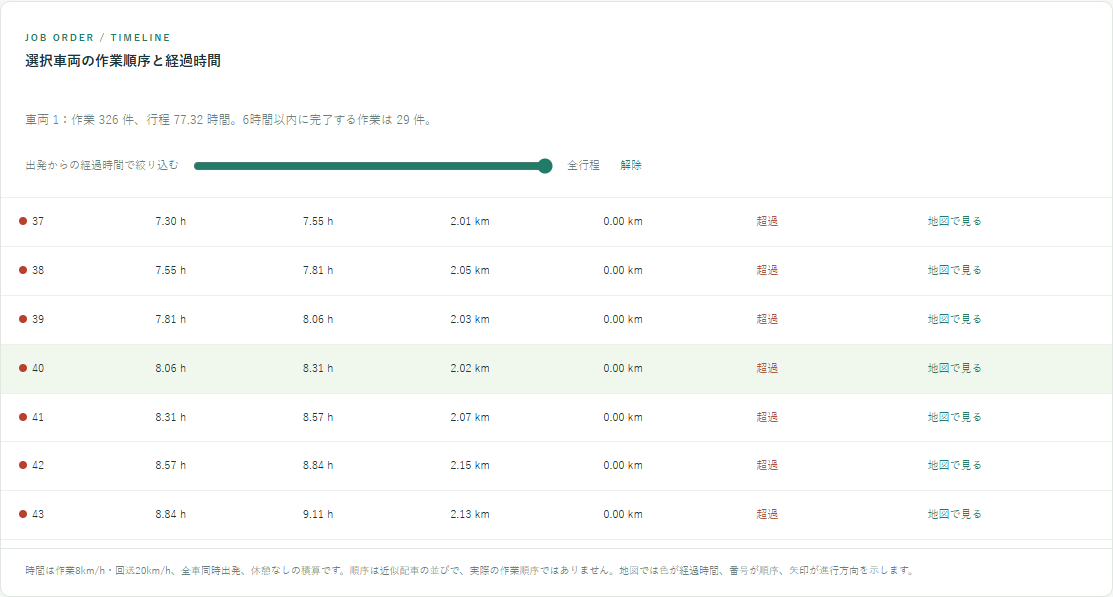
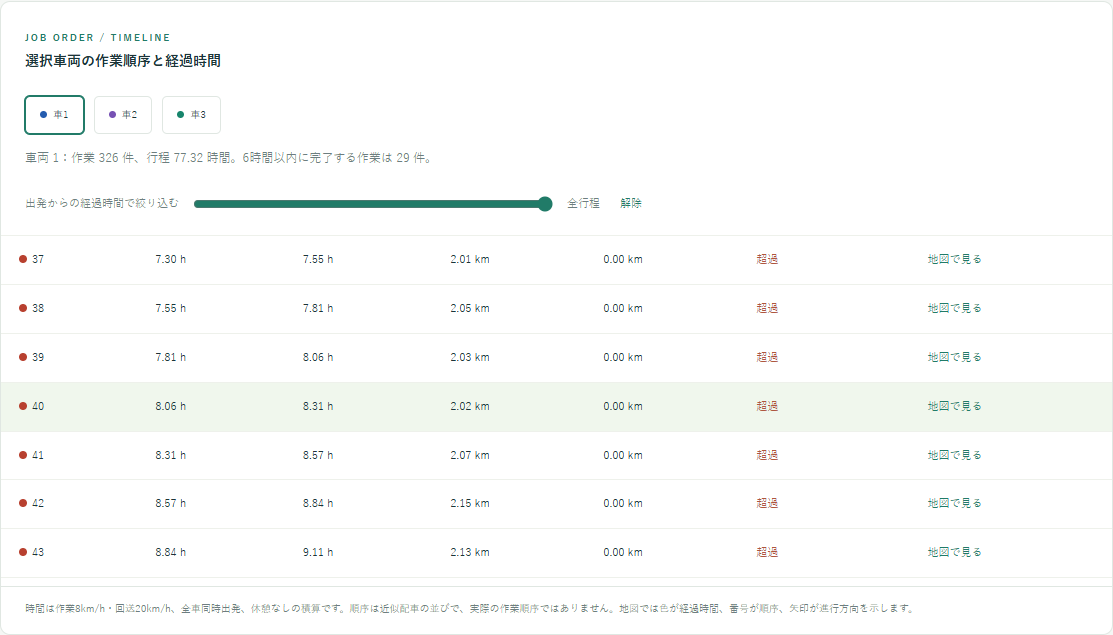
Distinguish marker types and allow switching vehicles from the focused view
- Labels by kind: 業N contractors, DCN sites, 融N melting facilities, 車N vehicle
  start points (rounded tags); circled numbers are reserved for job order
- In the single-vehicle view the other vehicles' start points stay as faded,
  clickable tags; legend and trip-panel vehicle chips plus prev/next buttons
  switch vehicles without going back to the company view

diff --git a/web/style.css b/web/style.css
@@ -8,7 +8,7 @@
 .company-map-legend>b,.company-map-legend>span{display:block;margin-bottom:6px}
 .company-map-legend>div{display:flex;flex-wrap:wrap;gap:5px}
 .company-map-legend .vehicle-chip{padding:4px 8px}
-.vehicle-start span{display:block;border:2px solid white;border-radius:50%;color:white;font:bold 10px/18px Arial;text-align:center;box-shadow:0 1px 4px #0005}
+.vehicle-start span{display:block;border:2px solid white;border-radius:5px;color:white;font:bold 10px/16px Meiryo,sans-serif;text-align:center;box-shadow:0 1px 4px #0005}.vehicle-start.is-other span{opacity:.45}.vehicle-start.is-other:hover span{opacity:1}
 .dc-map-controls{display:flex;align-items:center;flex-wrap:wrap;gap:10px 20px;padding:12px 24px;border-top:1px solid var(--line);font-size:11px}
 .dc-map-controls label{display:flex;align-items:center;gap:6px;cursor:pointer}
 .dc-map-controls>span{color:var(--muted);font-size:10px}
@@ -33,7 +33,7 @@
 .route-layout>*,.thermal-layout>*,.stats>*,.evidence-grid>*,.site-grid>*{min-width:0}
 .snow-input-grid{display:grid;grid-template-columns:repeat(3,minmax(0,1fr));gap:14px 20px;margin:14px 0 22px}.snow-input-grid label{font-size:11px;min-width:0}.snow-input-grid small{color:var(--muted)}.snow-input-grid input,.snow-input-grid select{min-width:0}.snow-balance{display:grid;grid-template-columns:repeat(3,minmax(0,1fr));gap:15px;margin-top:18px}.snow-balance-item{display:grid;gap:5px;font-size:11px}.snow-balance-item i{display:inline-block;width:8px;height:8px;margin-right:6px;border-radius:50%}.snow-balance-item b{font-size:20px;font-weight:500}.snow-balance-item meter{width:100%}.snow-chart-panel{margin:20px 0}#snow-chart svg{display:block;width:100%;height:auto}#snow-chart text{font:11px sans-serif;fill:#6d7e80}#snow-day-stocks{display:flex;gap:15px;flex-wrap:wrap;font-size:11px;margin-top:15px}#snow-error{color:#af563f}#snow-management .panel,#snow-management .table-scroll{min-width:0;max-width:100%}#snow-management [hidden]{display:none}#snow-management .stat-value{font-size:25px}@media(max-width:800px){.snow-input-grid,.snow-balance{grid-template-columns:repeat(2,minmax(0,1fr))}}@media(max-width:380px){.snow-input-grid{grid-template-columns:1fr}.sidebar nav{flex-wrap:wrap}}
 :root{--ink:#1c3438;--muted:#6d7e80;--green:#217b68;--lime:#dfeec6;--bg:#f5f7f5;--line:#e0e7e2;--blue:#47799a;--red:#bd6555;--sidebar:235px}
-*{box-sizing:border-box}html{scroll-behavior:smooth;scroll-padding-top:28px}body{margin:0;background:var(--bg);color:var(--ink);font:14px/1.8 "Noto Sans JP","Yu Gothic",Meiryo,sans-serif}a{color:var(--green);text-decoration:none}a:hover{text-decoration:underline}button,input,select{font:inherit}button{cursor:pointer}button:focus-visible,a:focus-visible,input:focus-visible,select:focus-visible,summary:focus-visible{outline:3px solid #e5a331;outline-offset:3px}.sidebar{position:fixed;inset:0 auto 0 0;width:var(--sidebar);padding:36px 24px;background:#fff;border-right:1px solid var(--line);display:flex;flex-direction:column;z-index:1000}.brand{display:flex;gap:12px;align-items:center;color:var(--ink);font-size:16px;letter-spacing:2px;line-height:1.3}.brand b{font-weight:500;font-size:13px;letter-spacing:3px}.brandmark{color:var(--green);font-size:35px}.nav-caption{font-size:11px;color:var(--muted);margin:24px 0 35px}nav{display:grid;gap:8px}nav a{padding:13px 9px;display:flex;gap:15px;font-size:10px;color:#81908d;white-space:nowrap;border-radius:7px}nav a span{font-size:12px;color:var(--ink)}nav a.active,nav a:hover{background:#eaf2e9;color:var(--green);text-decoration:none}nav a.active span{color:var(--green);font-weight:bold}.sidebar-bottom{margin-top:auto;font-size:10px;color:var(--muted)}.sidebar-bottom p{margin:12px 0 20px}.live-dot{display:inline-block;width:6px;height:6px;border-radius:50%;background:var(--green);margin-right:7px}main{margin-left:var(--sidebar);padding:0 46px;max-width:1700px}header{height:82px;display:flex;align-items:center;justify-content:space-between;border-bottom:1px solid var(--line);font-size:10px;letter-spacing:1px;color:var(--muted)}.slash{margin:0 15px;color:#aab6af}.pill{padding:5px 11px;border:1px solid #dce5de;border-radius:100px;font-size:10px;color:#65796c;background:#fafcf9;white-space:nowrap}.eyebrow{font-size:10px;letter-spacing:2px;color:var(--green);font-weight:bold}section{padding-top:52px}h1{font-size:clamp(26px,3.1vw,44px);line-height:1.65;font-weight:600;letter-spacing:1px;margin:16px 0}h1 span{color:var(--green)}.intro{color:var(--muted);font-size:12px;margin:15px 0 30px;line-height:2}h2{font-size:20px;line-height:1.7;margin:4px 0 0;font-weight:600}h3{font-size:14px;margin:0}p{margin-top:0}.stats{display:grid;grid-template-columns:repeat(4,1fr);gap:15px;margin:25px 0}.stat{background:#fff;border:1px solid var(--line);border-radius:9px;padding:18px 20px}.stat-label{font-size:11px;color:var(--muted)}.stat-value{font-size:31px;font-family:Arial,sans-serif;font-weight:500;letter-spacing:-1px;line-height:1.4;margin:8px 0}.stat-value small{font-family:Meiryo,sans-serif;font-size:11px;color:var(--muted);margin-left:6px;letter-spacing:0}.stat-note{font-size:10px;color:var(--muted)}.panel{background:#fff;border:1px solid var(--line);border-radius:10px;overflow:hidden}.panel-heading{padding:22px 24px;display:flex;align-items:center;justify-content:space-between;gap:12px}.panel-heading a{font-size:11px}.panel-heading .eyebrow{font-size:9px}.panel-heading h2{font-size:17px}.segmented{display:flex;gap:4px;background:#f2f5f1;padding:4px;border-radius:6px}.segmented button{background:none;border:0;padding:7px 12px;font-size:11px;border-radius:4px;color:var(--muted)}.segmented button.selected{background:#fff;color:var(--green);box-shadow:0 1px 4px #0001}#map{height:470px;background:#eaf0e8}.map-footer{display:flex;flex-wrap:wrap;gap:22px;padding:13px 24px;font-size:10px;color:var(--muted);align-items:center}.map-footer label{margin-left:auto}.legend-dot{display:inline-block;width:8px;height:8px;border-radius:50%;margin-right:5px}.green{background:var(--green)}.blue{background:var(--blue)}.legend-line{display:inline-block;width:17px;height:3px;background:var(--green);margin:0 5px 3px 0}.red{background:var(--red)}.fineprint{font-size:10px;color:var(--muted);line-height:1.9;padding:0 24px 16px;margin:0}.section-title{display:flex;justify-content:space-between;align-items:center;gap:20px}.section-intro{color:var(--muted);font-size:12px;margin:14px 0 23px}.notice{background:#faf2e5;border:1px solid #e9dfc9;color:#8a6831;padding:14px 18px;font-size:11px;border-radius:7px;margin-bottom:22px}.route-layout{display:grid;grid-template-columns:260px 1fr;gap:20px}.controls{padding:22px}.controls h3{margin-bottom:22px}.tag{background:#eef2ea;border-radius:4px;padding:2px 5px;font-size:9px;margin-left:5px;color:var(--muted);font-weight:normal}.controls label{display:block;font-size:11px;margin:18px 0}.controls label>span{float:right;color:var(--green)}input[type=range]{width:100%;accent-color:var(--green);display:block;margin-top:12px}input[type=number],select,input[type=search]{width:100%;background:#fbfcfa;border:1px solid var(--line);border-radius:5px;padding:8px 10px;color:var(--ink);margin-top:7px}input:invalid{border-color:var(--red)}.controls .fineprint{padding:8px 0 0}.route-stats{grid-template-columns:repeat(3,1fr);margin-top:0}.route-stats .stat{padding:14px 16px}.route-stats .stat-value{font-size:27px}.table-scroll{overflow:auto}table{border-collapse:collapse;width:100%;text-align:left;font-size:11px;white-space:nowrap}th{background:#f7f9f5;font-size:10px;font-weight:500;color:var(--muted)}td,th{padding:13px 18px;border-bottom:1px solid #eef1eb}tr:last-child td{border-bottom:none}tr.selected-row{background:#f0f7ed}.text-button{border:0;background:none;color:var(--green);font-size:11px}.ok{color:var(--green)}.bad{color:#af563f}.vehicle-list{display:flex;flex-wrap:wrap;gap:10px;margin-top:16px}.vehicle-chip{padding:9px 14px;background:white;border:1px solid var(--line);border-radius:5px;font-size:10px}.vehicle-chip i{display:inline-block;width:7px;height:7px;border-radius:50%;margin-right:6px}.thermal-layout{display:grid;grid-template-columns:300px 1fr;gap:25px;margin-top:25px}.heat-hero{background:#244f46;color:#fff;border-radius:10px;padding:30px}.heat-hero .eyebrow{color:#c8dfb0}.heat-hero strong{font:64px/1.5 Arial,sans-serif;margin-right:12px}.heat-hero p{font-size:12px;color:#bed3c7}.heat-hero>div>span{font-size:13px;color:#bed3c7}.heat-sub{display:flex;gap:40px;border-top:1px solid #ffffff25;padding-top:18px;font-size:11px}.heat-sub b{font-size:17px;color:#edf6e0;font-weight:normal;display:block}.heat-flow{display:flex;justify-content:space-around;align-items:center;margin:24px 0;color:var(--green);font-size:13px;text-align:center}.heat-flow small{display:block;color:var(--muted);font-size:10px}.explanation{padding:22px}.explanation p{font-size:11px;color:var(--muted);margin-top:12px;line-height:2}.explanation .fineprint{padding:0;margin-bottom:0}.site-grid{display:grid;grid-template-columns:repeat(2,1fr);gap:16px}.site-card{background:#fff;border:1px solid var(--line);border-radius:9px;padding:23px;display:flex;flex-direction:column}.site-top{display:flex;justify-content:space-between;gap:12px;font-size:10px;color:var(--green)}.site-card h3{font-size:16px;margin:10px 0 5px}.site-card p{font-size:11px;color:var(--muted);margin:10px 0}.site-capacity{font-size:22px;line-height:1.7}.site-capacity small{font-size:10px;color:var(--muted)}.site-card .checks{padding-top:12px;border-top:1px solid var(--line);margin-top:auto;color:#846b46;font-size:10px}.site-actions{display:flex;justify-content:space-between;margin-top:12px;font-size:11px}.site-actions button{border:0;background:none;color:var(--green);padding:0}.fleet-panel{margin:20px 0}#contractor-table td{white-space:normal;min-width:170px;max-width:460px;vertical-align:top}#contractor-table small{display:block;color:var(--muted);margin-top:5px}.equipment{display:inline-block;background:#f2f5ed;padding:3px 6px;margin:0 4px 4px 0;border-radius:4px;font-size:10px}details.panel{margin-top:20px;padding:20px 24px}summary{font-size:13px;cursor:pointer}summary span{color:var(--muted);font-size:10px;margin-left:20px}.search-row{display:flex;align-items:center;gap:15px;font-size:11px;margin:16px 0}.search-row input{max-width:350px;margin:0}.directory{max-height:400px}.evidence-grid{display:grid;grid-template-columns:1fr 1fr;gap:20px;margin-top:20px}.explanation ul{padding-left:20px;color:var(--muted);font-size:11px;line-height:2.4}.source-row{padding:13px 0;border-bottom:1px solid var(--line);font-size:11px;display:flex;justify-content:space-between;gap:15px}.source-row small{font-size:10px;color:var(--muted)}.footnote{font-size:10px;line-height:2;color:var(--muted);margin:25px 0}footer{border-top:1px solid var(--line);font-size:10px;letter-spacing:1px;padding:25px 0 35px;display:flex;justify-content:space-between;color:var(--green)}footer span{color:var(--muted);letter-spacing:0}.leaflet-popup-content{font:12px/1.9 Meiryo,sans-serif;min-width:210px}.leaflet-popup-content small{color:var(--muted)}.site-marker{background:var(--green);border:2px solid white;border-radius:50%;box-shadow:0 1px 5px #0003;color:#fff;text-align:center;font:bold 10px/22px Arial}.contractor-marker{background:var(--blue);border:2px solid white;border-radius:4px;box-shadow:0 1px 5px #0003}.depot-marker{background:#e6ac49;border:2px solid white;border-radius:3px}.leaflet-control-attribution{font-size:9px!important}
+*{box-sizing:border-box}html{scroll-behavior:smooth;scroll-padding-top:28px}body{margin:0;background:var(--bg);color:var(--ink);font:14px/1.8 "Noto Sans JP","Yu Gothic",Meiryo,sans-serif}a{color:var(--green);text-decoration:none}a:hover{text-decoration:underline}button,input,select{font:inherit}button{cursor:pointer}button:focus-visible,a:focus-visible,input:focus-visible,select:focus-visible,summary:focus-visible{outline:3px solid #e5a331;outline-offset:3px}.sidebar{position:fixed;inset:0 auto 0 0;width:var(--sidebar);padding:36px 24px;background:#fff;border-right:1px solid var(--line);display:flex;flex-direction:column;z-index:1000}.brand{display:flex;gap:12px;align-items:center;color:var(--ink);font-size:16px;letter-spacing:2px;line-height:1.3}.brand b{font-weight:500;font-size:13px;letter-spacing:3px}.brandmark{color:var(--green);font-size:35px}.nav-caption{font-size:11px;color:var(--muted);margin:24px 0 35px}nav{display:grid;gap:8px}nav a{padding:13px 9px;display:flex;gap:15px;font-size:10px;color:#81908d;white-space:nowrap;border-radius:7px}nav a span{font-size:12px;color:var(--ink)}nav a.active,nav a:hover{background:#eaf2e9;color:var(--green);text-decoration:none}nav a.active span{color:var(--green);font-weight:bold}.sidebar-bottom{margin-top:auto;font-size:10px;color:var(--muted)}.sidebar-bottom p{margin:12px 0 20px}.live-dot{display:inline-block;width:6px;height:6px;border-radius:50%;background:var(--green);margin-right:7px}main{margin-left:var(--sidebar);padding:0 46px;max-width:1700px}header{height:82px;display:flex;align-items:center;justify-content:space-between;border-bottom:1px solid var(--line);font-size:10px;letter-spacing:1px;color:var(--muted)}.slash{margin:0 15px;color:#aab6af}.pill{padding:5px 11px;border:1px solid #dce5de;border-radius:100px;font-size:10px;color:#65796c;background:#fafcf9;white-space:nowrap}.eyebrow{font-size:10px;letter-spacing:2px;color:var(--green);font-weight:bold}section{padding-top:52px}h1{font-size:clamp(26px,3.1vw,44px);line-height:1.65;font-weight:600;letter-spacing:1px;margin:16px 0}h1 span{color:var(--green)}.intro{color:var(--muted);font-size:12px;margin:15px 0 30px;line-height:2}h2{font-size:20px;line-height:1.7;margin:4px 0 0;font-weight:600}h3{font-size:14px;margin:0}p{margin-top:0}.stats{display:grid;grid-template-columns:repeat(4,1fr);gap:15px;margin:25px 0}.stat{background:#fff;border:1px solid var(--line);border-radius:9px;padding:18px 20px}.stat-label{font-size:11px;color:var(--muted)}.stat-value{font-size:31px;font-family:Arial,sans-serif;font-weight:500;letter-spacing:-1px;line-height:1.4;margin:8px 0}.stat-value small{font-family:Meiryo,sans-serif;font-size:11px;color:var(--muted);margin-left:6px;letter-spacing:0}.stat-note{font-size:10px;color:var(--muted)}.panel{background:#fff;border:1px solid var(--line);border-radius:10px;overflow:hidden}.panel-heading{padding:22px 24px;display:flex;align-items:center;justify-content:space-between;gap:12px}.panel-heading a{font-size:11px}.panel-heading .eyebrow{font-size:9px}.panel-heading h2{font-size:17px}.segmented{display:flex;gap:4px;background:#f2f5f1;padding:4px;border-radius:6px}.segmented button{background:none;border:0;padding:7px 12px;font-size:11px;border-radius:4px;color:var(--muted)}.segmented button.selected{background:#fff;color:var(--green);box-shadow:0 1px 4px #0001}#map{height:470px;background:#eaf0e8}.map-footer{display:flex;flex-wrap:wrap;gap:22px;padding:13px 24px;font-size:10px;color:var(--muted);align-items:center}.map-footer label{margin-left:auto}.legend-dot{display:inline-block;width:8px;height:8px;border-radius:50%;margin-right:5px}.green{background:var(--green)}.blue{background:var(--blue)}.legend-line{display:inline-block;width:17px;height:3px;background:var(--green);margin:0 5px 3px 0}.red{background:var(--red)}.fineprint{font-size:10px;color:var(--muted);line-height:1.9;padding:0 24px 16px;margin:0}.section-title{display:flex;justify-content:space-between;align-items:center;gap:20px}.section-intro{color:var(--muted);font-size:12px;margin:14px 0 23px}.notice{background:#faf2e5;border:1px solid #e9dfc9;color:#8a6831;padding:14px 18px;font-size:11px;border-radius:7px;margin-bottom:22px}.route-layout{display:grid;grid-template-columns:260px 1fr;gap:20px}.controls{padding:22px}.controls h3{margin-bottom:22px}.tag{background:#eef2ea;border-radius:4px;padding:2px 5px;font-size:9px;margin-left:5px;color:var(--muted);font-weight:normal}.controls label{display:block;font-size:11px;margin:18px 0}.controls label>span{float:right;color:var(--green)}input[type=range]{width:100%;accent-color:var(--green);display:block;margin-top:12px}input[type=number],select,input[type=search]{width:100%;background:#fbfcfa;border:1px solid var(--line);border-radius:5px;padding:8px 10px;color:var(--ink);margin-top:7px}input:invalid{border-color:var(--red)}.controls .fineprint{padding:8px 0 0}.route-stats{grid-template-columns:repeat(3,1fr);margin-top:0}.route-stats .stat{padding:14px 16px}.route-stats .stat-value{font-size:27px}.table-scroll{overflow:auto}table{border-collapse:collapse;width:100%;text-align:left;font-size:11px;white-space:nowrap}th{background:#f7f9f5;font-size:10px;font-weight:500;color:var(--muted)}td,th{padding:13px 18px;border-bottom:1px solid #eef1eb}tr:last-child td{border-bottom:none}tr.selected-row{background:#f0f7ed}.text-button{border:0;background:none;color:var(--green);font-size:11px}.ok{color:var(--green)}.bad{color:#af563f}.vehicle-list{display:flex;flex-wrap:wrap;gap:10px;margin-top:16px}.vehicle-chip{padding:9px 14px;background:white;border:1px solid var(--line);border-radius:5px;font-size:10px}.vehicle-chip i{display:inline-block;width:7px;height:7px;border-radius:50%;margin-right:6px}.thermal-layout{display:grid;grid-template-columns:300px 1fr;gap:25px;margin-top:25px}.heat-hero{background:#244f46;color:#fff;border-radius:10px;padding:30px}.heat-hero .eyebrow{color:#c8dfb0}.heat-hero strong{font:64px/1.5 Arial,sans-serif;margin-right:12px}.heat-hero p{font-size:12px;color:#bed3c7}.heat-hero>div>span{font-size:13px;color:#bed3c7}.heat-sub{display:flex;gap:40px;border-top:1px solid #ffffff25;padding-top:18px;font-size:11px}.heat-sub b{font-size:17px;color:#edf6e0;font-weight:normal;display:block}.heat-flow{display:flex;justify-content:space-around;align-items:center;margin:24px 0;color:var(--green);font-size:13px;text-align:center}.heat-flow small{display:block;color:var(--muted);font-size:10px}.explanation{padding:22px}.explanation p{font-size:11px;color:var(--muted);margin-top:12px;line-height:2}.explanation .fineprint{padding:0;margin-bottom:0}.site-grid{display:grid;grid-template-columns:repeat(2,1fr);gap:16px}.site-card{background:#fff;border:1px solid var(--line);border-radius:9px;padding:23px;display:flex;flex-direction:column}.site-top{display:flex;justify-content:space-between;gap:12px;font-size:10px;color:var(--green)}.site-card h3{font-size:16px;margin:10px 0 5px}.site-card p{font-size:11px;color:var(--muted);margin:10px 0}.site-capacity{font-size:22px;line-height:1.7}.site-capacity small{font-size:10px;color:var(--muted)}.site-card .checks{padding-top:12px;border-top:1px solid var(--line);margin-top:auto;color:#846b46;font-size:10px}.site-actions{display:flex;justify-content:space-between;margin-top:12px;font-size:11px}.site-actions button{border:0;background:none;color:var(--green);padding:0}.fleet-panel{margin:20px 0}#contractor-table td{white-space:normal;min-width:170px;max-width:460px;vertical-align:top}#contractor-table small{display:block;color:var(--muted);margin-top:5px}.equipment{display:inline-block;background:#f2f5ed;padding:3px 6px;margin:0 4px 4px 0;border-radius:4px;font-size:10px}details.panel{margin-top:20px;padding:20px 24px}summary{font-size:13px;cursor:pointer}summary span{color:var(--muted);font-size:10px;margin-left:20px}.search-row{display:flex;align-items:center;gap:15px;font-size:11px;margin:16px 0}.search-row input{max-width:350px;margin:0}.directory{max-height:400px}.evidence-grid{display:grid;grid-template-columns:1fr 1fr;gap:20px;margin-top:20px}.explanation ul{padding-left:20px;color:var(--muted);font-size:11px;line-height:2.4}.source-row{padding:13px 0;border-bottom:1px solid var(--line);font-size:11px;display:flex;justify-content:space-between;gap:15px}.source-row small{font-size:10px;color:var(--muted)}.footnote{font-size:10px;line-height:2;color:var(--muted);margin:25px 0}footer{border-top:1px solid var(--line);font-size:10px;letter-spacing:1px;padding:25px 0 35px;display:flex;justify-content:space-between;color:var(--green)}footer span{color:var(--muted);letter-spacing:0}.leaflet-popup-content{font:12px/1.9 Meiryo,sans-serif;min-width:210px}.leaflet-popup-content small{color:var(--muted)}.site-marker{background:var(--green);border:2px solid white;border-radius:5px;box-shadow:0 1px 5px #0003;color:#fff;text-align:center;font:bold 10px/16px Meiryo,sans-serif}.contractor-marker{background:var(--blue);border:2px solid white;border-radius:4px;box-shadow:0 1px 5px #0003}.depot-marker{background:#e6ac49;border:2px solid white;border-radius:3px}.leaflet-control-attribution{font-size:9px!important}
 @media(min-width:1600px){main{padding:0 65px}}@media(max-width:1100px){:root{--sidebar:190px}.sidebar{padding:28px 18px}main{padding:0 25px}.route-layout{grid-template-columns:220px 1fr}.stat{padding:15px}.stat-value{font-size:26px}.route-stats{gap:8px}.route-stats .stat-value{font-size:22px}.route-stats .stat{padding:12px}.thermal-layout{grid-template-columns:250px 1fr}}
 @media(max-width:800px){.sidebar{position:static;width:100%;padding:16px 22px;flex-direction:row;align-items:center;justify-content:space-between}.brand{font-size:12px}.brandmark{font-size:25px}.brand b{font-size:10px}.nav-caption,.sidebar-bottom{display:none}nav{display:flex;gap:3px}nav a{padding:8px;font-size:10px}nav a span{display:none}main{margin:0;padding:0 20px}header{height:58px;font-size:8px}h1{font-size:28px}.stats{gap:10px;grid-template-columns:repeat(2,1fr)}section{padding-top:35px}.route-layout,.thermal-layout{grid-template-columns:1fr}.route-stats{grid-template-columns:repeat(3,1fr)}.controls{display:grid;grid-template-columns:1fr 1fr;gap:0 20px}.controls h3,.controls .fineprint{grid-column:1/-1}.panel-heading{padding:17px;flex-wrap:wrap}.map-footer{gap:12px;padding:12px 17px}.map-footer label{margin-left:0}.site-grid,.evidence-grid{grid-template-columns:1fr}.section-title{align-items:flex-start}.section-title h2{font-size:19px}.section-title .pill{display:none}#map{height:400px}.heat-hero strong{font-size:52px}footer span{display:none}.stat-value{font-size:28px}.fineprint{padding-left:17px;padding-right:17px}.source-row{flex-direction:column;gap:3px}.search-row{flex-wrap:wrap}.search-row input{max-width:100%}summary span{display:block;margin-left:0}}
 
@@ -64,3 +64,8 @@ tr.faded-row td{opacity:.4}
 #grid-panel{margin-top:16px}
 #dc-grid-table td{white-space:normal;vertical-align:top;min-width:120px}
 #dc-grid-table small{color:var(--muted)}
+
+.legend-tag{display:inline-block;min-width:22px;padding:0 4px;border-radius:4px;color:#fff;font:bold 9px/14px Meiryo,sans-serif;text-align:center;margin-right:5px;vertical-align:middle}
+.legend-tag.legend-circle{border-radius:50%;min-width:14px;padding:0}
+.vehicle-chip.is-selected{border-color:var(--green);box-shadow:0 0 0 1px var(--green)}
+button.vehicle-chip{cursor:pointer;color:var(--ink)}

diff --git a/web/contractors.js b/web/contractors.js
@@ -60,6 +60,11 @@ if(CR){
     (r.tail_features??[]).forEach(f=>push(f,r.trip_ids.length+1));
     return {features:out,seq,hours:clock};
   }
+  function vehicleStart(c,r){
+    const trips=new Map(c.trips.map(t=>[t.id,t]));
+    for(const id of r.trip_ids){const t=trips.get(id);const f=t.features.find(x=>x.properties.service)??t.features[0];if(f){const [lon,lat]=f.geometry.coordinates[0];return [lat,lon];}}
+    return null;
+  }
   function styleFor(f,focus){
     const p=f.properties;
     const faded=timeLimit!=null&&p.start_h>timeLimit;
@@ -82,13 +87,14 @@ if(CR){
        onEachFeature:(f,l)=>{const p=f.properties;l.bindPopup(`${esc(companyLabel(c))}<br>車両 ${p.vehicle} / ${p.service?'除雪作業':'往復・区間間の回送'}${p.seq?`<br>作業 ${p.seq} 番目 / 出発から ${num(p.start_h,1)}〜${num(p.end_h,1)} 時間`:''}${focus?'':`<br><button class="text-button" data-popup-focus="${p.vehicle}">この車両の作業順序・方向を見る →</button>`}`,{autoPan:false});
          if(focus&&p.seq)l.on('click',()=>selectTrip(p.seq,false));}}).addTo(layer);
     // Start markers: one per vehicle (all vehicles) or one per job (focused vehicle).
-    if(!focus){
-      const started=new Set();
-      for(const f of features){const v=f.properties.vehicle;if(!f.properties.service||started.has(v))continue;started.add(v);const [lon,lat]=f.geometry.coordinates[0];
-        L.marker([lat,lon],{icon:L.divIcon({className:'vehicle-start',html:`<span style="background:${color(v)}">${v}</span>`,iconSize:[22,22]}),title:`車両 ${v} の作業開始点。クリックで作業順序・方向を表示`,zIndexOffset:2000}).addTo(layer).bindTooltip(`車両 ${v}：クリックで順序・方向・経過時間を表示`,{direction:'top',offset:[0,-12]}).on('click',()=>focusVehicle(v));}
-    }else{
-      drawDetail(c,built[0]);
+    // Start markers for every vehicle (車N). In the focused view the other vehicles stay as faded,
+    // clickable markers so the user can jump between vehicles without leaving the view.
+    for(const r of s.routes){
+      const start=vehicleStart(c,r);if(!start)continue;const v=r.vehicle_id,other=focus&&v!==focus;
+      L.marker(start,{icon:L.divIcon({className:'vehicle-start'+(other?' is-other':''),html:`<span style="background:${color(v)}">車${v}</span>`,iconSize:[30,20],iconAnchor:[15,10]}),title:`車両 ${v} の作業開始点。クリックで作業順序・方向を表示`,zIndexOffset:other?1800:2000})
+        .addTo(layer).bindTooltip(`車両 ${v}：クリックで${other?'この車両に切替':'順序・方向・経過時間を表示'}`,{direction:'top',offset:[0,-12]}).on('click',()=>focusVehicle(v));
     }
+    if(focus)drawDetail(c,built[0]);
     const source=D.contractors.find(x=>x.id===c.id);
     L.polyline([[source.latitude,source.longitude],[c.depot.lat,c.depot.lon]],{color:'#687278',dashArray:'2 5',weight:2}).addTo(layer).bindPopup(`道路への未確認接続 ${num(c.snap_distance_m)}m。走行距離・時間に未算入。`,{autoPan:false});
     $('company-route-note').textContent=`${c.name} / 広域担当${num(s.validation.covered)}方向区間。試算設定の最大${c.fleet_limit}台：${c.fleet_basis}。実際の上限・稼働・拠点配備は未確認。所在地と道路接続点の差：約${num(c.snap_distance_m)}m。${CR.mode==='joint'?'全社方式では台数は固定です。':'台数変更は固定担当区間内の再配分です。'}`;
@@ -96,12 +102,16 @@ if(CR){
     $('company-route-table').innerHTML=s.routes.map(r=>`<tr class="${focus===r.vehicle_id?'selected-row':''}" data-vehicle="${r.vehicle_id}"><td><i class="legend-line" style="background:${color(r.vehicle_id)}"></i>${r.vehicle_id}</td><td>${num(r.service_km,2)} km</td><td>${num(r.deadhead_km,2)} km</td><td>${num(r.hours,2)} h</td><td class="${r.hours<=SHIFT_HOURS?'ok':'bad'}">${r.hours<=SHIFT_HOURS?'範囲内':'超過'}</td><td><button class="text-button" data-focus-vehicle="${r.vehicle_id}">順序を見る</button></td></tr>`).join('');
     document.querySelectorAll('[data-focus-vehicle]').forEach(b=>b.onclick=()=>{$('company-vehicle-focus').value=b.dataset.focusVehicle;selectedTrip=null;timeLimit=null;draw(false);});
     renderTripPanel(c,focus,built[0]);
-    const chips=routes.map(r=>`<span class="vehicle-chip"><i style="background:${color(r.vehicle_id)}"></i>車両 ${r.vehicle_id}</span>`).join('');
+    const chips=s.routes.map(r=>`<button class="vehicle-chip${focus===r.vehicle_id?' is-selected':''}" data-vehicle-chip="${r.vehicle_id}" title="車両 ${r.vehicle_id} の順序・方向を表示"><i style="background:${color(r.vehicle_id)}"></i>車${r.vehicle_id}</button>`).join('');
+    const prev=focus?((focus-2+s.routes.length)%s.routes.length)+1:0,next=focus?(focus%s.routes.length)+1:0;
+    const nav=focus?`<button id="prev-vehicle" class="text-button">← 車${prev}</button><button id="next-vehicle" class="text-button">車${next} →</button>`:'';
     const bandLegend=focus?`<div class="time-bands">${bands.map(([limit,col],i)=>`<span><i style="background:${col}"></i>${i?`${bands[i-1][0]}〜`:'0〜'}${limit===Infinity?'':limit}時間${limit===Infinity?'超':''}</span>`).join('')}</div>`:'';
-    $('company-map-legend').innerHTML=`<b>${esc(companyLabel(c))} / ${s.vehicles}台${focus?` / 車両${focus}を表示`:''}</b><span>${focus?'色：出発からの経過時間　番号：作業の順序　矢印：進行方向　破線：回送':'実線：作業　破線：回送　番号：作業開始点（クリックでその車両の順序・方向・経過時間）'}　灰色点線：未確認接続</span>${bandLegend}<div>${chips}</div><div class="legend-actions">${focus?'<button id="all-vehicles-view" class="text-button">全車両に戻る</button>':''}<button id="fit-company" class="text-button">この表示範囲に合わせる</button><button id="all-companies-view" class="text-button">全社表示に戻る</button><a href="#company-routing">事業者・台数・表示車両を変更 ↓</a></div>`;
+    $('company-map-legend').innerHTML=`<b>${esc(companyLabel(c))} / ${s.vehicles}台${focus?` / 車両${focus}を表示`:''}</b><span>${focus?'色：出発からの経過時間　丸数字：作業の順序　矢印：進行方向　破線：回送　薄い車N：他車両の開始点（クリックで切替）':'実線：作業　破線：回送　車N：作業開始点（クリックでその車両の順序・方向・経過時間）'}　灰色点線：未確認接続</span>${bandLegend}<div>${chips}</div><div class="legend-actions">${nav}${focus?'<button id="all-vehicles-view" class="text-button">全車両に戻る</button>':''}<button id="fit-company" class="text-button">この表示範囲に合わせる</button><button id="all-companies-view" class="text-button">全社表示に戻る</button><a href="#company-routing">事業者・台数・表示車両を変更 ↓</a></div>`;
     $('fit-company').onclick=()=>{if(layer.getLayers().length)map.fitBounds(layer.getBounds(),{padding:[45,45],maxZoom:15});};
     $('all-companies-view').onclick=()=>allCompanies(false);
     const back=$('all-vehicles-view');if(back)back.onclick=()=>focusVehicle(0);
+    document.querySelectorAll('#company-map-legend [data-vehicle-chip]').forEach(b=>b.onclick=()=>focusVehicle(+b.dataset.vehicleChip===focus?0:+b.dataset.vehicleChip));
+    if(focus){$('prev-vehicle').onclick=()=>focusVehicle(prev);$('next-vehicle').onclick=()=>focusVehicle(next);}
     if(fit&&layer.getLayers().length){map.fitBounds(layer.getBounds(),{padding:[45,45],maxZoom:15});revealMap();}
   }
   // Direction arrows and job-order numbers for a single vehicle.
@@ -139,6 +149,8 @@ if(CR){
     const slider=$('time-slider');slider.max=Math.ceil(total*2)/2;slider.step=.5;slider.value=timeLimit??slider.max;
     $('time-slider-value').textContent=timeLimit==null?'全行程':`出発から ${num(timeLimit,1)} 時間まで`;
     const done=timeLimit==null?b.seq.length:b.seq.filter(t=>t.end_h<=timeLimit).length;
+    $('trip-nav').innerHTML=Array.from({length:+$('company-vehicles').value},(_,i)=>i+1).map(v=>`<button class="vehicle-chip${v===focus?' is-selected':''}" data-vehicle-chip="${v}"><i style="background:${color(v)}"></i>車${v}</button>`).join('');
+    document.querySelectorAll('#trip-nav [data-vehicle-chip]').forEach(b2=>b2.onclick=()=>focusVehicle(+b2.dataset.vehicleChip));
     $('trip-summary').textContent=`車両 ${focus}：作業 ${b.seq.length} 件、行程 ${num(total,2)} 時間。${timeLimit==null?'':`${num(timeLimit,1)} 時間時点で完了 ${done} 件。`}6時間以内に完了する作業は ${b.seq.filter(t=>t.end_h<=SHIFT_HOURS).length} 件。`;
     $('trip-table').innerHTML=b.seq.map(t=>`<tr data-seq="${t.seq}" class="${selectedTrip===t.seq?'selected-row':''}${timeLimit!=null&&t.start_h>timeLimit?' faded-row':''}"><td><i class="legend-dot" style="background:${bandColor(t.end_h)}"></i>${t.seq}</td><td>${num(t.start_h,2)} h</td><td>${num(t.end_h,2)} h</td><td>${num(t.trip.service_km,2)} km</td><td>${num(t.trip.deadhead_km+(t.seq>1?t.trip.incoming_metrics?.deadhead_km??0:0),2)} km</td><td class="${t.end_h<=SHIFT_HOURS?'ok':'bad'}">${t.end_h<=SHIFT_HOURS?'範囲内':'超過'}</td><td><button class="text-button" data-trip-go="${t.seq}">地図で見る</button></td></tr>`).join('');
     document.querySelectorAll('#trip-table tr[data-seq]').forEach(row=>row.onclick=e=>{if(e.target.closest('button'))return;selectTrip(+row.dataset.seq,false);});

diff --git a/web/index.html b/web/index.html
@@ -29,10 +29,10 @@
       <div class="stats" id="top-stats"></div>
       <div class="panel map-panel">
         <div class="panel-heading"><div><span class="eyebrow">SPATIAL OVERVIEW</span><h2>札幌の拠点と広域配車</h2></div><div class="segmented"><button id="city-view" class="selected">全社の仮定割当</button><button id="company-view">選択事業者の経路</button></div></div>
-        <div class="dc-map-controls"><label><input id="dc-layer" type="checkbox" checked> <i class="legend-dot dc-color"></i>DC候補地区（代表点）</label><label><input id="melt-layer" type="checkbox" checked> <i class="legend-dot green"></i>既存融雪施設</label><button id="dc-view" class="text-button">DC候補地区を表示</button><label><input id="grid-layer" type="checkbox"> <i class="legend-dot" style="background:#7a4fb8"></i>変電所・送電線・IX</label><span>区画・敷地境界は未確定</span></div>
+        <div class="dc-map-controls"><label><input id="dc-layer" type="checkbox" checked> <i class="legend-dot dc-color"></i>DC候補地区（代表点）</label><label><input id="melt-layer" type="checkbox" checked> <i class="legend-dot green"></i>既存融雪施設（融1〜融7）</label><button id="dc-view" class="text-button">DC候補地区を表示</button><label><input id="grid-layer" type="checkbox"> <i class="legend-dot" style="background:#7a4fb8"></i>変電所・送電線・IX</label><span>区画・敷地境界は未確定</span></div>
         <p id="depot-evidence-note" class="explanation">出動拠点・配備数の組合せを確認できた地点は0件（配備が0台という意味ではありません）。業1〜業4は公開住所の地番代表点です。経路は、ここに10・13・4・3台を集中配備すると仮定した試算です。実際の担当範囲・出動経路ではありません。<a href="#fleet">所在地と台数の照合表 ↓</a></p>
         <div id="map" aria-label="札幌と近郊のDC候補地区、既存融雪施設、業者所在地、広域の車両別経路を表示する地図"></div>
-        <div class="map-footer"><span><i class="legend-dot green"></i>既存融雪施設</span><span><i class="legend-dot blue"></i>事業者の公開所在地</span><span><i class="legend-line" style="background:#82988d"></i>取得道路の下図</span><span><i class="legend-line" style="background:#d13932"></i>往復到達できず未割当</span><label><input type="checkbox" id="base-map" checked> 地理院背景地図</label></div>
+        <div class="map-footer"><span><i class="legend-tag" style="background:var(--green)">融1</i>既存融雪施設</span><span><i class="legend-tag" style="background:var(--blue)">業1</i>事業者</span><span><i class="legend-tag" style="background:#7a4fb8">DC1</i>DC候補地区</span><span><i class="legend-tag" style="background:#245caf">車1</i>車両の作業開始点</span><span><i class="legend-tag legend-circle" style="background:#1f7a4d">1</i>選択車両の作業順序</span><span><i class="legend-line" style="background:#82988d"></i>取得道路の下図</span><span><i class="legend-line" style="background:#d13932"></i>往復到達できず未割当</span><label><input type="checkbox" id="base-map" checked> 地理院背景地図</label></div>
         <div id="company-map-legend" class="company-map-legend" aria-live="polite"></div>
         <p class="fineprint">点は住所代表点です。建設区画・搬入口・除雪車の配置場所は未確認。背景地図のみインターネット接続を使用します。</p>
       </div>
@@ -53,7 +53,7 @@
       <p class="section-intro" id="company-route-note"></p>
       <div class="stats route-stats" id="company-route-stats"></div>
       <div class="panel"><div class="table-scroll"><table><thead><tr><th>車両</th><th>作業距離</th><th>往復等の回送</th><th>所要時間</th><th>6時間以内</th><th></th></tr></thead><tbody id="company-route-table"></tbody></table></div></div>
-      <div class="panel trip-panel" id="trip-panel" hidden><div class="panel-heading"><div><span class="eyebrow">JOB ORDER / TIMELINE</span><h3>選択車両の作業順序と経過時間</h3></div></div><p class="section-intro" id="trip-summary" style="padding:0 24px"></p><div class="slider-row"><label for="time-slider">出発からの経過時間で絞り込む</label><input type="range" id="time-slider" min="0" max="8" step="0.5" value="8"><span id="time-slider-value">全行程</span><button id="time-slider-reset" class="text-button">解除</button></div><div class="table-scroll trip-scroll"><table><thead><tr><th>順</th><th>開始</th><th>完了</th><th>作業</th><th>回送</th><th>6時間以内</th><th></th></tr></thead><tbody id="trip-table"></tbody></table></div><p class="fineprint">時間は作業8km/h・回送20km/h、全車同時出発、休憩なしの積算です。順序は近似配車の並びで、実際の作業順序ではありません。地図では色が経過時間、番号が順序、矢印が進行方向を示します。</p></div>
+      <div class="panel trip-panel" id="trip-panel" hidden><div class="panel-heading"><div><span class="eyebrow">JOB ORDER / TIMELINE</span><h3>選択車両の作業順序と経過時間</h3></div></div><div id="trip-nav" class="vehicle-list" style="padding:0 24px;margin:0 0 12px"></div><p class="section-intro" id="trip-summary" style="padding:0 24px"></p><div class="slider-row"><label for="time-slider">出発からの経過時間で絞り込む</label><input type="range" id="time-slider" min="0" max="8" step="0.5" value="8"><span id="time-slider-value">全行程</span><button id="time-slider-reset" class="text-button">解除</button></div><div class="table-scroll trip-scroll"><table><thead><tr><th>順</th><th>開始</th><th>完了</th><th>作業</th><th>回送</th><th>6時間以内</th><th></th></tr></thead><tbody id="trip-table"></tbody></table></div><p class="fineprint">時間は作業8km/h・回送20km/h、全車同時出発、休憩なしの積算です。順序は近似配車の並びで、実際の作業順序ではありません。地図では色が経過時間、番号が順序、矢印が進行方向を示します。</p></div>
       <p class="section-intro">全車両表示では実線＝除雪作業、破線＝往復・区間間の回送、同色が同じ車両で、始点番号は各車両が最初に作業する地点。車両を1台選ぶと、色が経過時間、番号が作業順序、矢印が進行方向に切り替わります。所在地から接続道路までの灰色点線は未確認の接続を表し、走行経路ではありません。速度は作業8km/h・回送20km/hの仮定です。</p>
       <p class="fineprint">近い作業場所を道路網で直接つなぎ、車両は最後に出発道路ノードへ戻ります。仮の割当区域・近似経路で、最適性や区域の完全な連結性は保証しません。機種・装備・車幅・旋回制限は未検証。<a href="../data/processed/dispatch.json">広域の事業者別経路データ</a></p>
     </section>

diff --git a/web/app.js b/web/app.js
@@ -59,7 +59,7 @@ if(G){
 function showDcLayer(){$('dc-layer').checked=true;dcLayer.addTo(map);}
 function setViewButtons(pilot){$('city-view').classList.toggle('selected',!pilot);$('company-view').classList.toggle('selected',pilot);}
 $('dc-view').onclick=()=>{showDcLayer();const points=(D.dc?.candidates??[]).filter(s=>s.latitude!=null).map(s=>[s.latitude,s.longitude]);if(points.length)map.fitBounds(points,{padding:[45,45],maxZoom:12});};
-D.candidates.forEach((s,i)=>{if(s.latitude==null)return;siteMarkers[s.id]=L.marker([s.latitude,s.longitude],{icon:L.divIcon({className:'site-marker',html:String(i+1),iconSize:[25,25]})}).addTo(meltLayer).bindPopup(`<b>${esc(s.name)}</b><br>${esc(s.address)}<br><small>${esc(s.location_status)}</small><br>${link(s.source_url,'施設資料')}`);});
+D.candidates.forEach((s,i)=>{if(s.latitude==null)return;siteMarkers[s.id]=L.marker([s.latitude,s.longitude],{icon:L.divIcon({className:'site-marker',html:`融${i+1}`,iconSize:[30,20],iconAnchor:[15,10]}),title:`融${i+1} ${s.name}`}).addTo(meltLayer).bindTooltip(`融${i+1} ${esc(s.name)}`,{direction:'top',offset:[0,-10]}).bindPopup(`<b>融${i+1} ${esc(s.name)}</b><br>${esc(s.address)}<br><small>${esc(s.location_status)}</small><br>${link(s.source_url,'施設資料')}`);});
 D.contractors.forEach(s=>{if(s.latitude==null)return;contractorMarkers[s.id]=L.marker([s.latitude,s.longitude],{title:s.name,icon:L.divIcon({className:'contractor-marker numbered-contractor',html:`<span>業${contractorNumber(s.id)}</span>`,iconSize:[25,25],iconAnchor:[12,12]}),zIndexOffset:1500,riseOnHover:true}).addTo(map).bindTooltip(esc(companyLabel(s)),{direction:'top',offset:[0,-20]}).bindPopup(`<b>${esc(companyLabel(s))}</b><br>${esc(s.location_type)}<br>${esc(s.address)}<br><small>${esc(s.published_scope)}<br>拠点配備：未確認／地番代表点・入口未確認</small><br>${Object.entries(s.fleet).map(([k,v])=>`${esc(k)} ${v}台`).join('<br>')}<br>${link(s.source_url,'会社公表値')}`,{autoPan:false});});
 Object.entries(contractorMarkers).forEach(([id,marker])=>marker.getElement().style.setProperty('--company-color',companyColor(id)));
 const routeLayer=L.layerGroup().addTo(map);
@@ -71,7 +71,7 @@ function updateHeat(){
   $('melt-tonnes').textContent=num(tonnes);$('melt-volume').textContent=density==null?'密度を入力':num(tonnes*1000/density)+' m³/日';$('heat-output').textContent=num(q,2)+' MW';
 }
 ['it','load','recovery','snow-temp','density','heat-hours'].forEach(id=>$(id).addEventListener('input',updateHeat));updateHeat();
-$('site-grid').innerHTML=D.candidates.map((s,i)=>`<article class="site-card"><div class="site-top"><span>候補 ${String(i+1).padStart(2,'0')}</span><span>調査順 ${s.investigation_tier} · 条件付き</span></div><h3>${esc(s.name)}</h3><p>${esc(s.address)}<br>${esc(s.facility_status)}</p><div class="site-capacity">${s.existing_capacity_m3_day==null?'未確認':num(s.existing_capacity_m3_day)} <small>${s.existing_capacity_m3_day==null?'処理能力':'m³/日・公表融雪能力'}</small></div><p>${esc(s.rationale)}</p><p class="checks">確認事項：${esc(s.site_specific_checks)}</p><div class="site-actions"><button data-site="${s.id}">地図で見る ↑</button>${link(s.source_url,'根拠資料')}</div></article>`).join('');
+$('site-grid').innerHTML=D.candidates.map((s,i)=>`<article class="site-card"><div class="site-top"><span>融${i+1} · 既存融雪施設の候補</span><span>調査順 ${s.investigation_tier} · 条件付き</span></div><h3>${esc(s.name)}</h3><p>${esc(s.address)}<br>${esc(s.facility_status)}</p><div class="site-capacity">${s.existing_capacity_m3_day==null?'未確認':num(s.existing_capacity_m3_day)} <small>${s.existing_capacity_m3_day==null?'処理能力':'m³/日・公表融雪能力'}</small></div><p>${esc(s.rationale)}</p><p class="checks">確認事項：${esc(s.site_specific_checks)}</p><div class="site-actions"><button data-site="${s.id}">地図で見る ↑</button>${link(s.source_url,'根拠資料')}</div></article>`).join('');
 document.querySelectorAll('[data-site]').forEach(b=>b.onclick=()=>{const s=D.candidates.find(s=>s.id===b.dataset.site);if(s.latitude!=null){showMeltLayer();map.setView([s.latitude,s.longitude],15);siteMarkers[s.id].openPopup();revealMap();}});
 $('contractor-table').innerHTML=D.contractors.map(c=>`<tr><td><b>${esc(companyLabel(c))}</b><small>${esc(c.location_type)}<br>${esc(c.address)}<br>${esc(c.location_evidence)}<br>座標：${esc(c.geocoded_title)}の代表点（枝番・入口未確認）</small></td><td><small>${esc(c.published_scope)}</small>${Object.entries(c.fleet).map(([k,v])=>`<span class="equipment">${esc(k)} <b>${v}台</b></span>`).join('')}</td><td><b>試算 ${c.scenario_fleet_count}台</b><small>${Object.entries(c.scenario_fleet).map(([k,v])=>`${esc(k)} ${v}台`).join('＋')}<br>試算から除外：${Object.entries(c.excluded_fleet).map(([k,v])=>`${esc(k)} ${v}台`).join('、')}<br>拠点の実配備：未確認</small></td><td>${link(c.source_url,'機械')}<br>${link(c.address_source_url,'所在地')}</td></tr>`).join('');
 $('district-table').innerHTML=D.district_fleet.map(r=>`<tr><td>${esc(r.ward+r.district)}</td><td>${Object.values(r.city_loan).reduce((a,b)=>a+b,0)}台</td><td>${r.minimum_including_city_loan.grader_family}台</td><td>${r.minimum_including_city_loan.wheel_loader_8t}台</td><td>${r.minimum_including_city_loan.dump_10t}台</td></tr>`).join('');

diff --git a/tests/browser/dashboard.spec.js b/tests/browser/dashboard.spec.js
@@ -75,7 +75,14 @@ test('wide coverage and company-origin fleet routes are selectable',async({page}
   await expect(page.locator('#company-route-table')).toContainText('超過');
   await page.locator('#company-vehicle-focus').selectOption('2');
   await expect(page.locator('#company-map-legend')).toContainText('車両2を表示');
-  await expect(page.locator('#company-map-legend .vehicle-chip')).toHaveCount(1);
+  await expect(page.locator('#company-map-legend .vehicle-chip')).toHaveCount(3);
+  await expect(page.locator('#company-map-legend .vehicle-chip.is-selected')).toHaveText(/車2/);
+  await page.locator('#next-vehicle').click();
+  await expect(page.locator('#company-vehicle-focus')).toHaveValue('3');
+  await page.locator('#company-map-legend [data-vehicle-chip="1"]').click();
+  await expect(page.locator('#company-vehicle-focus')).toHaveValue('1');
+  await expect(page.locator('.vehicle-start.is-other')).toHaveCount(2);
+  await expect(page.locator('#trip-nav .vehicle-chip')).toHaveCount(3);
   await page.locator('#city-view').click();
   const before=await page.evaluate(()=>[map.getZoom(),map.getCenter().lat,map.getCenter().lng]);
   await page.locator('.contractor-marker[title="KRS株式会社"]').hover();

diff --git a/docs/wide_dispatch.md b/docs/wide_dispatch.md
@@ -12,6 +12,8 @@
 
 - 事業者マーカーのクリックは選択とポップアップのみで、地図の位置・ズームは動かない。ホバーは強調表示だけ。地図の移動は凡例の「この表示範囲に合わせる」「全社の範囲に合わせる」、または「出発点と往復経路を表示」を押したときだけ行う。地図の空白クリックで全社表示へ戻す動作は廃止し、凡例の「全社表示に戻る」に置き換えた。
 - 全車両表示の開始点マーカー（番号付きの丸）をクリックすると、その車両の順序・方向・経過時間の表示に直接切り替わる。経路線のポップアップと、全社表示の会社担当色のポップアップにも切替ボタンを置いた。車両表示中は「全車両に戻る」で戻る。開始点が事業者所在地と重なる場合に隠れないよう、車両表示中は開始点マーカーを事業者マーカーより手前に描く。
+- 地図のラベルは種別で統一した。事業者＝業N、DC候補＝DCN、既存融雪施設＝融N、車両の作業開始点＝車N（いずれも角丸）。丸数字は選択車両の作業順序だけに使う。
+- 車両表示中も他車両の開始点を薄い車Nで残し、クリックで切り替える。凡例と作業順序パネルの車両チップ、「← 車N／車N →」ボタンでも移動できる。
 - 車両を1台選ぶと、経路の色が出発からの経過時間（0〜2、2〜4、4〜6、6時間超）、開始点の番号が作業順序、矢印が進行方向になる。経過時間は各区間の形状から作業8km/h・回送20km/hで積算しており、配車データの時間と一致する。
 - 「選択車両の作業順序と経過時間」パネルに作業ごとの開始・完了時刻、作業距離、回送距離、6時間以内かを表示する。行を選ぶと地図で該当作業を強調し、「地図で見る」で移動する。スライダーで経過時間を絞ると、その時点までに開始しない作業は薄く表示する。
 - 全社表示の凡例は会社名をクリックすると表示の切替、未割当区間もチェックで切替できる。方式切替や台数変更をしても視点は維持する。
